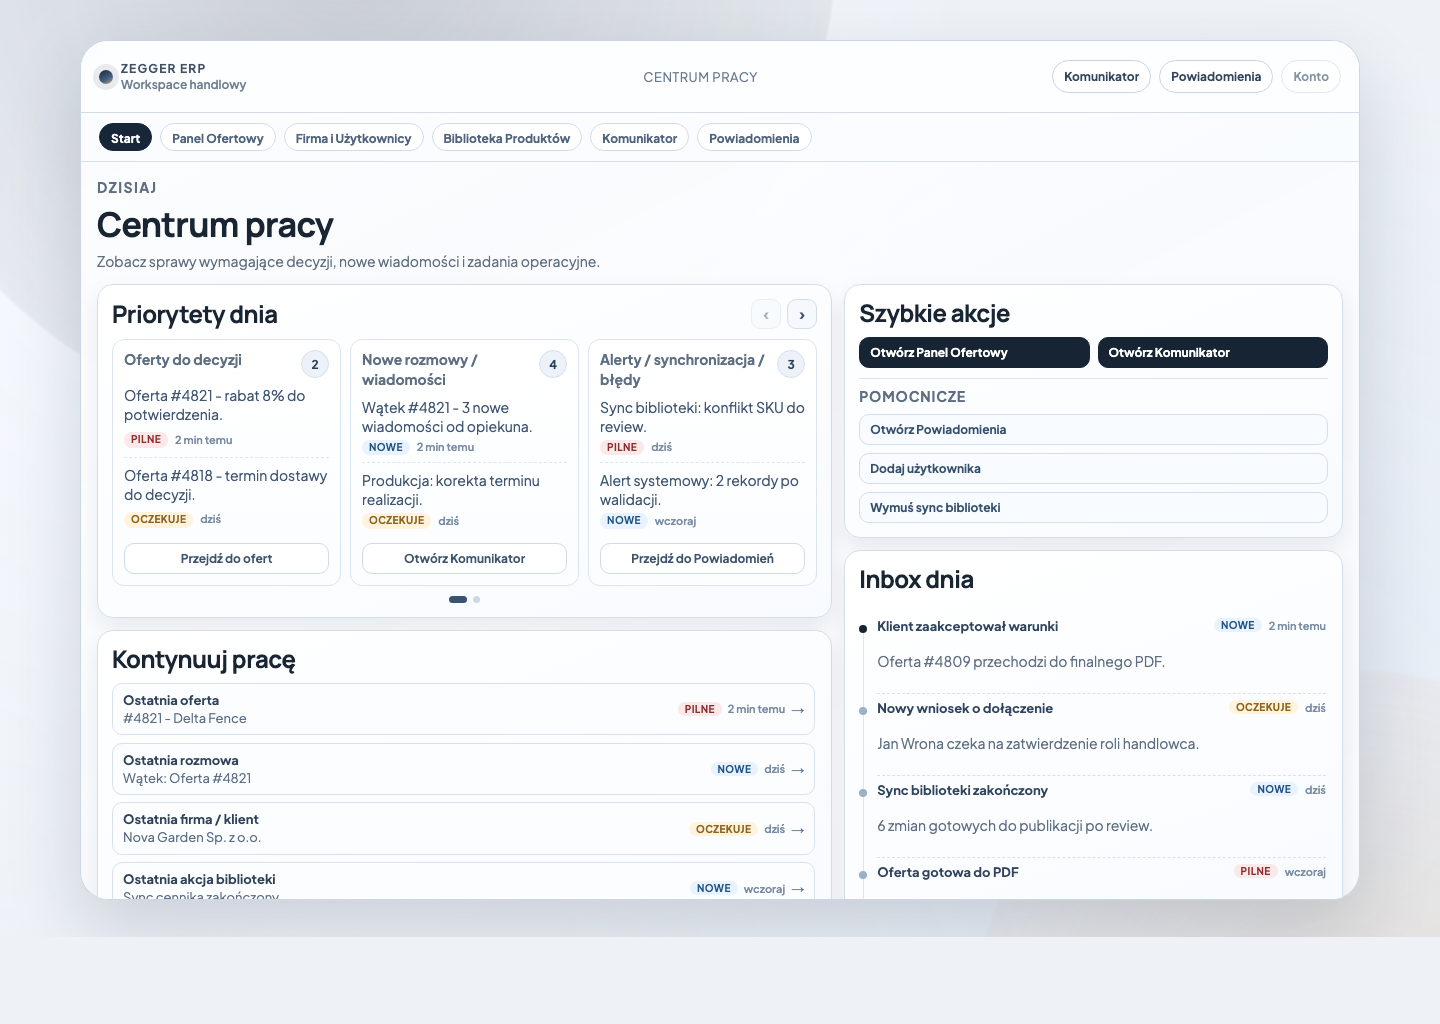
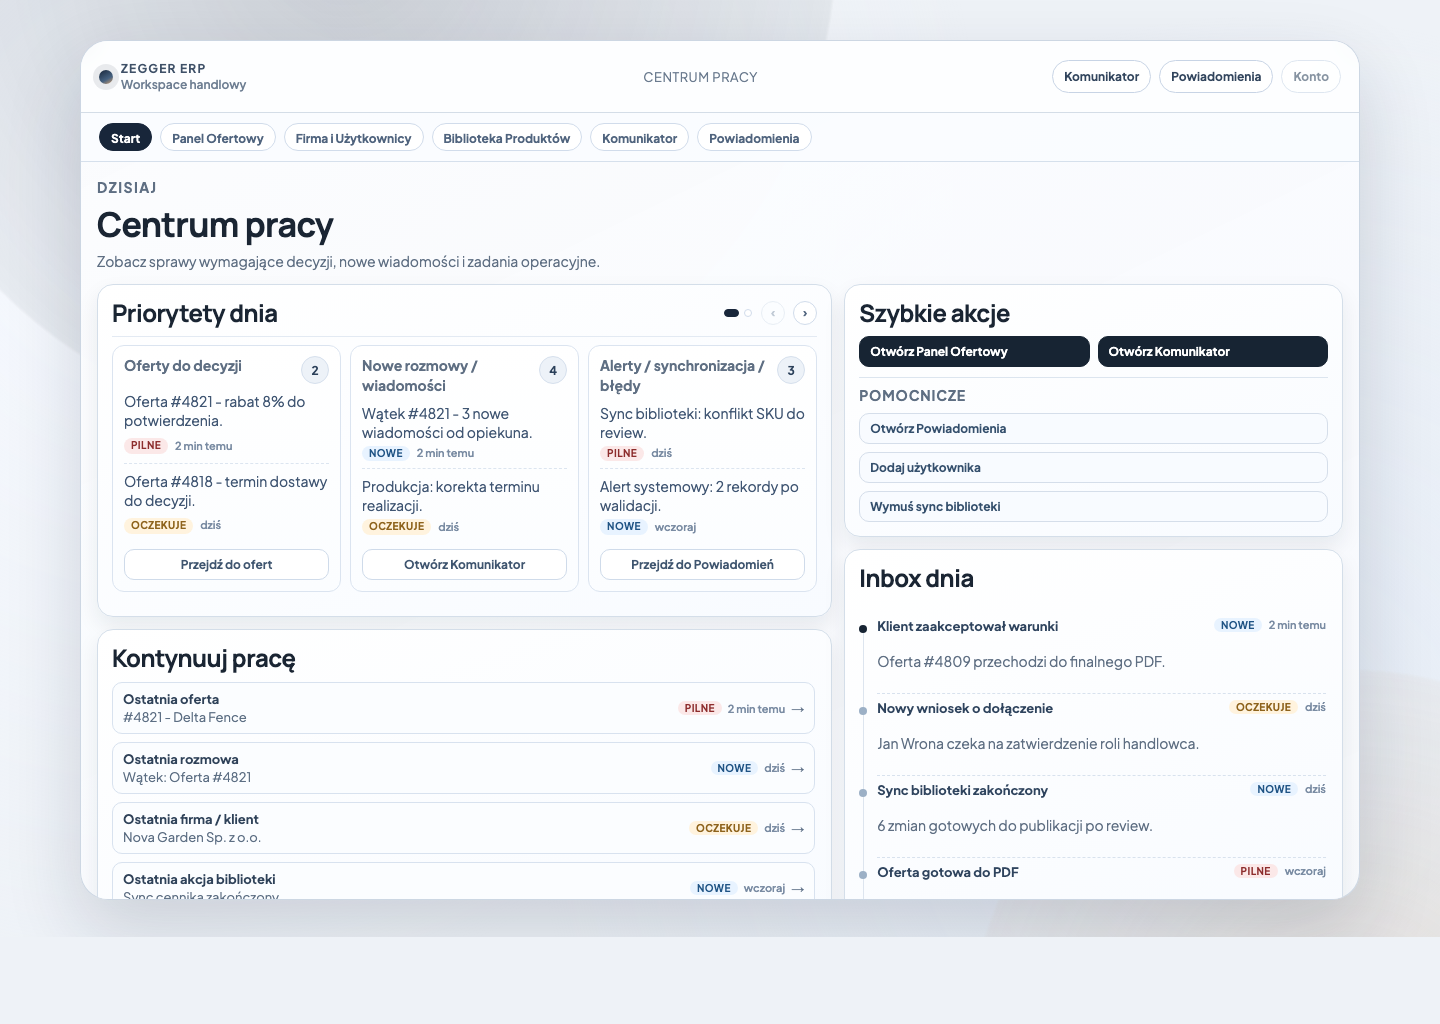
v15

diff --git a/prototype-ui/assets/css/prototype.css b/prototype-ui/assets/css/prototype.css
@@ -530,36 +530,52 @@ textarea {
 .zgs-start-priority-controls {
   display: inline-flex;
   align-items: center;
-  gap: 6px;
+  gap: 8px;
+  margin-left: auto;
 }
 
 .zgs-start-priority-nav-btn {
-  border: 1px solid #d3deea;
-  border-radius: 9px;
-  background: #f5f9fd;
-  color: #3c526d;
-  width: 30px;
-  height: 30px;
-  font-size: 16px;
+  border: 1px solid #d1dceb;
+  border-radius: 999px;
+  background: #ffffff;
+  color: #50647e;
+  width: 24px;
+  height: 24px;
+  font-size: 12px;
   line-height: 1;
   font-weight: 700;
   cursor: pointer;
+  display: inline-flex;
+  align-items: center;
+  justify-content: center;
   transition: background 0.2s ease, border-color 0.2s ease, color 0.2s ease;
 }
 
 .zgs-start-priority-nav-btn:hover:not(:disabled) {
-  background: #edf4fb;
-  border-color: #bdccdd;
+  background: #f7faff;
+  border-color: #c4d3e5;
+  color: #3f556f;
+}
+
+.zgs-start-priority-nav-btn:focus-visible {
+  outline: 0;
+  border-color: #a4b8cf;
+  box-shadow: 0 0 0 2px rgba(164, 184, 207, 0.22);
 }
 
 .zgs-start-priority-nav-btn:disabled {
-  opacity: 0.45;
+  opacity: 0.52;
+  color: #8a9cb0;
+  border-color: #d6e0eb;
+  background: #fbfdff;
   cursor: default;
 }
 
 .zgs-start-priority-slider {
   overflow: hidden;
   min-height: 0;
+  border-top: 1px solid #e3eaf3;
+  padding-top: 8px;
 }
 
 .zgs-start-priority-track {
@@ -665,25 +681,33 @@ textarea {
 
 .zgs-start-priority-dots {
   display: flex;
-  justify-content: center;
   align-items: center;
-  gap: 6px;
+  gap: 5px;
+  margin-right: 1px;
 }
 
 .zgs-start-priority-dot {
-  border: 0;
+  border: 1px solid #d1dceb;
   border-radius: 999px;
-  width: 7px;
-  height: 7px;
-  background: #ccd8e5;
+  width: 8px;
+  height: 8px;
+  background: #ffffff;
   padding: 0;
   cursor: pointer;
-  transition: width 0.2s ease, background 0.2s ease;
+  transition: width 0.2s ease, background 0.2s ease, border-color 0.2s ease;
+  opacity: 1;
+}
+
+.zgs-start-priority-dot:hover {
+  background: #eef4fb;
+  border-color: #c4d3e5;
 }
 
 .zgs-start-priority-dot.is-active {
-  width: 18px;
-  background: #3a536f;
+  width: 15px;
+  border-color: #18263a;
+  background: #18263a;
+  opacity: 1;
 }
 
 .zgs-start-resume-list {
@@ -910,6 +934,10 @@ textarea {
 }
 
 @media (min-width: 981px) {
+  .zgs-start-layout {
+    padding-bottom: 28px;
+  }
+
   .zgs-start-main,
   .zgs-start-side {
     grid-template-rows: auto minmax(0, 1fr);

diff --git a/prototype-ui/assets/js/app.js b/prototype-ui/assets/js/app.js
@@ -363,6 +363,13 @@
             '<div class="zgs-start-priority-top">' +
               "<h3>Priorytety dnia</h3>" +
               '<div class="zgs-start-priority-controls" aria-label="Nawigacja priorytetów">' +
+                '<div class="zgs-start-priority-dots" role="tablist" aria-label="Paginacja priorytetów">' +
+                  prioritySlides
+                    .map(function (_slide, index) {
+                      return '<button class="zgs-start-priority-dot" type="button" data-priority-dot="' + index + '" aria-label="Slajd ' + (index + 1) + '"></button>';
+                    })
+                    .join("") +
+                "</div>" +
                 '<button class="zgs-start-priority-nav-btn" type="button" data-priority-nav="prev" aria-label="Poprzedni slajd">‹</button>' +
                 '<button class="zgs-start-priority-nav-btn" type="button" data-priority-nav="next" aria-label="Następny slajd">›</button>' +
               "</div>" +
@@ -413,13 +420,6 @@
                   })
                   .join("") +
               "</div>" +
-            "</div>" +
-            '<div class="zgs-start-priority-dots" role="tablist" aria-label="Paginacja priorytetów">' +
-              prioritySlides
-                .map(function (_slide, index) {
-                  return '<button class="zgs-start-priority-dot" type="button" data-priority-dot="' + index + '" aria-label="Slajd ' + (index + 1) + '"></button>';
-                })
-                .join("") +
             "</div>" +
           "</article>" +
           '<article class="zgs-surface zgs-start-resume">' +
